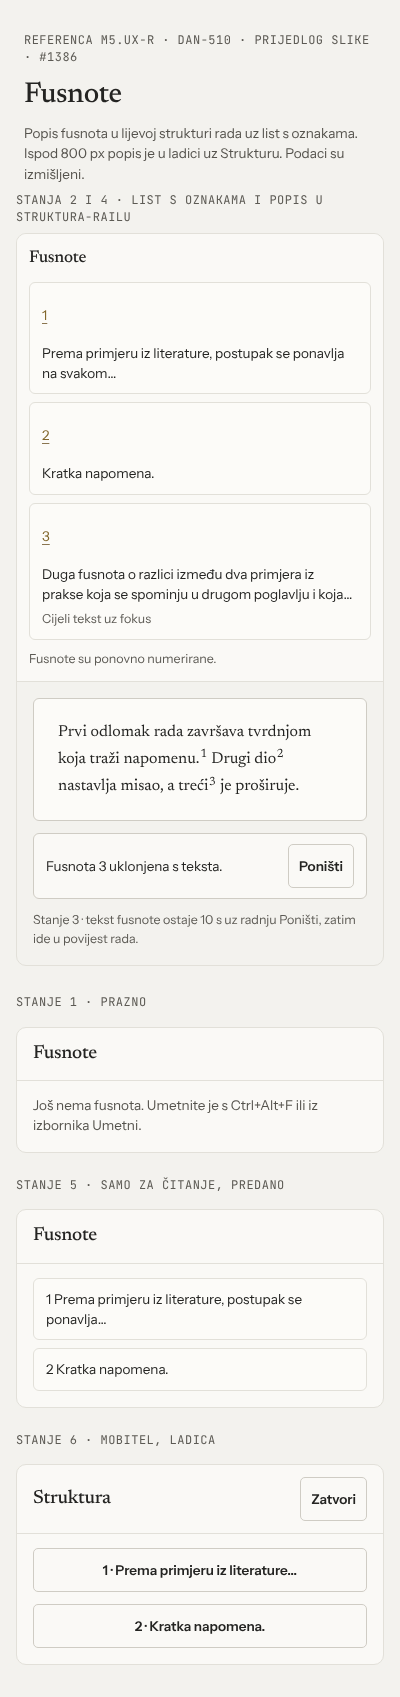
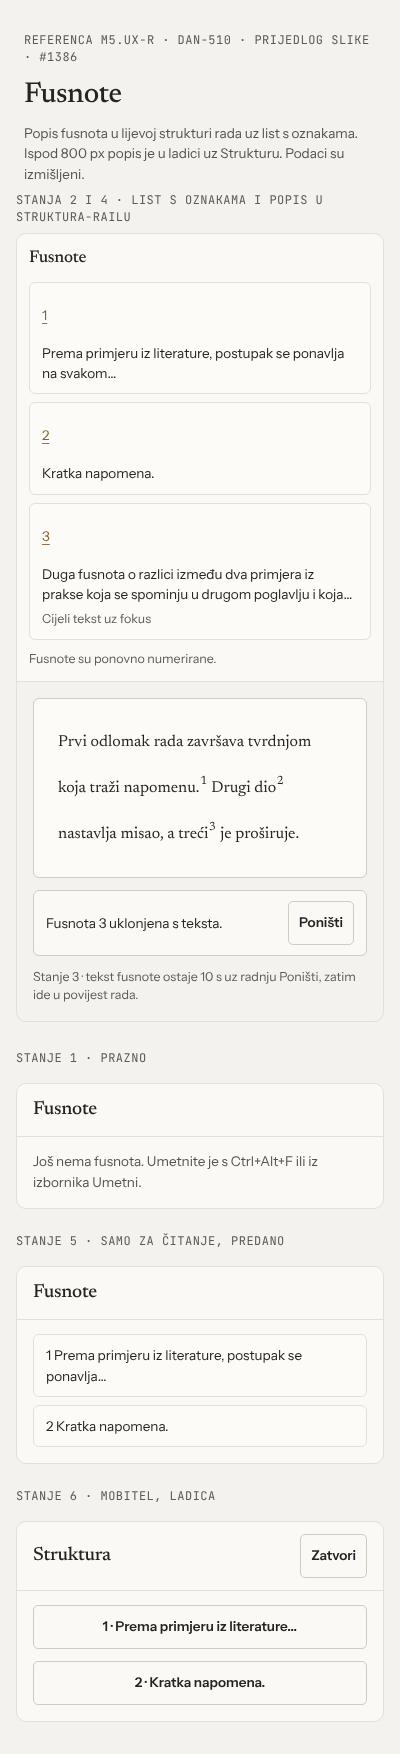
docs: non-overlapping 44x44 footnote mark targets in M5 reference (DAN-510)
Paragraphs containing footnote marks get a 46 px line pitch and the marks
lose their vertical negative margins, so the 44x44 targets of marks on
adjacent lines no longer overlap whatever the line wrapping. Footnote
snapshots re-rendered; the other 12 snapshots are byte-identical.

Claude-Session: https://claude.ai/code/session_011GCKG7GiisrW4fqtH2Z3La

diff --git a/docs/design/ductura/m5-reference/reference.css b/docs/design/ductura/m5-reference/reference.css
@@ -82,8 +82,10 @@ a { color: var(--accent); text-decoration: underline; text-decoration-color: var
 .sheet { --sheet: #fcfbf8; --ink: #242422; --ink-2: #55534d; --ink-3: #5c5a54; --rule: #cfccc4; --well: #efede7; --accent: #806529;
   background: var(--sheet); color: var(--ink); border: 1px solid var(--rule); border-radius: 6px; padding: 20px 24px; font: 16px/1.7 var(--ff-display); display: grid; gap: 10px; }
 .sheet p { margin: 0; }
-/* Oznaka fusnote: cilj dodira 44 × 44 px (#1386 t. 6); negativne margine čuvaju redak, broj ostaje mala gornja oznaka. */
-.sheet .fn { position: relative; z-index: 1; display: inline-flex; justify-content: center; align-items: center; width: 44px; height: 44px; margin: -12px -18px; color: inherit; text-decoration: none; }
+/* Oznaka fusnote: cilj dodira 44 × 44 px (#1386 t. 6). Odlomak s oznakom ima prored 46 px, a cilj je visok 44 px bez vertikalnih margina: ciljevi susjednih
+   redaka imaju razmak 2 px (zaokruživanje na piksele ne smije ih spojiti), pa se ne preklapaju ni uz kakav prijelom teksta. Vodoravne negativne margine čuvaju razmak teksta. */
+.sheet p:has(> .fn) { line-height: 46px; }
+.sheet .fn { position: relative; z-index: 1; display: inline-flex; justify-content: center; align-items: center; vertical-align: top; width: 44px; height: 44px; margin: 0 -18px; color: inherit; text-decoration: none; }
 .sheet .fn sup { position: relative; top: -0.45em; font-size: 0.75em; line-height: 1; }
 .mark { background: var(--well); border-bottom: 2px solid var(--accent); padding: 0 2px; }
 .toast { background: var(--raised); border: 1px solid var(--rule); border-radius: 6px; padding: 10px 12px; display: flex; gap: 12px; align-items: center; justify-content: space-between; flex-wrap: wrap; }
